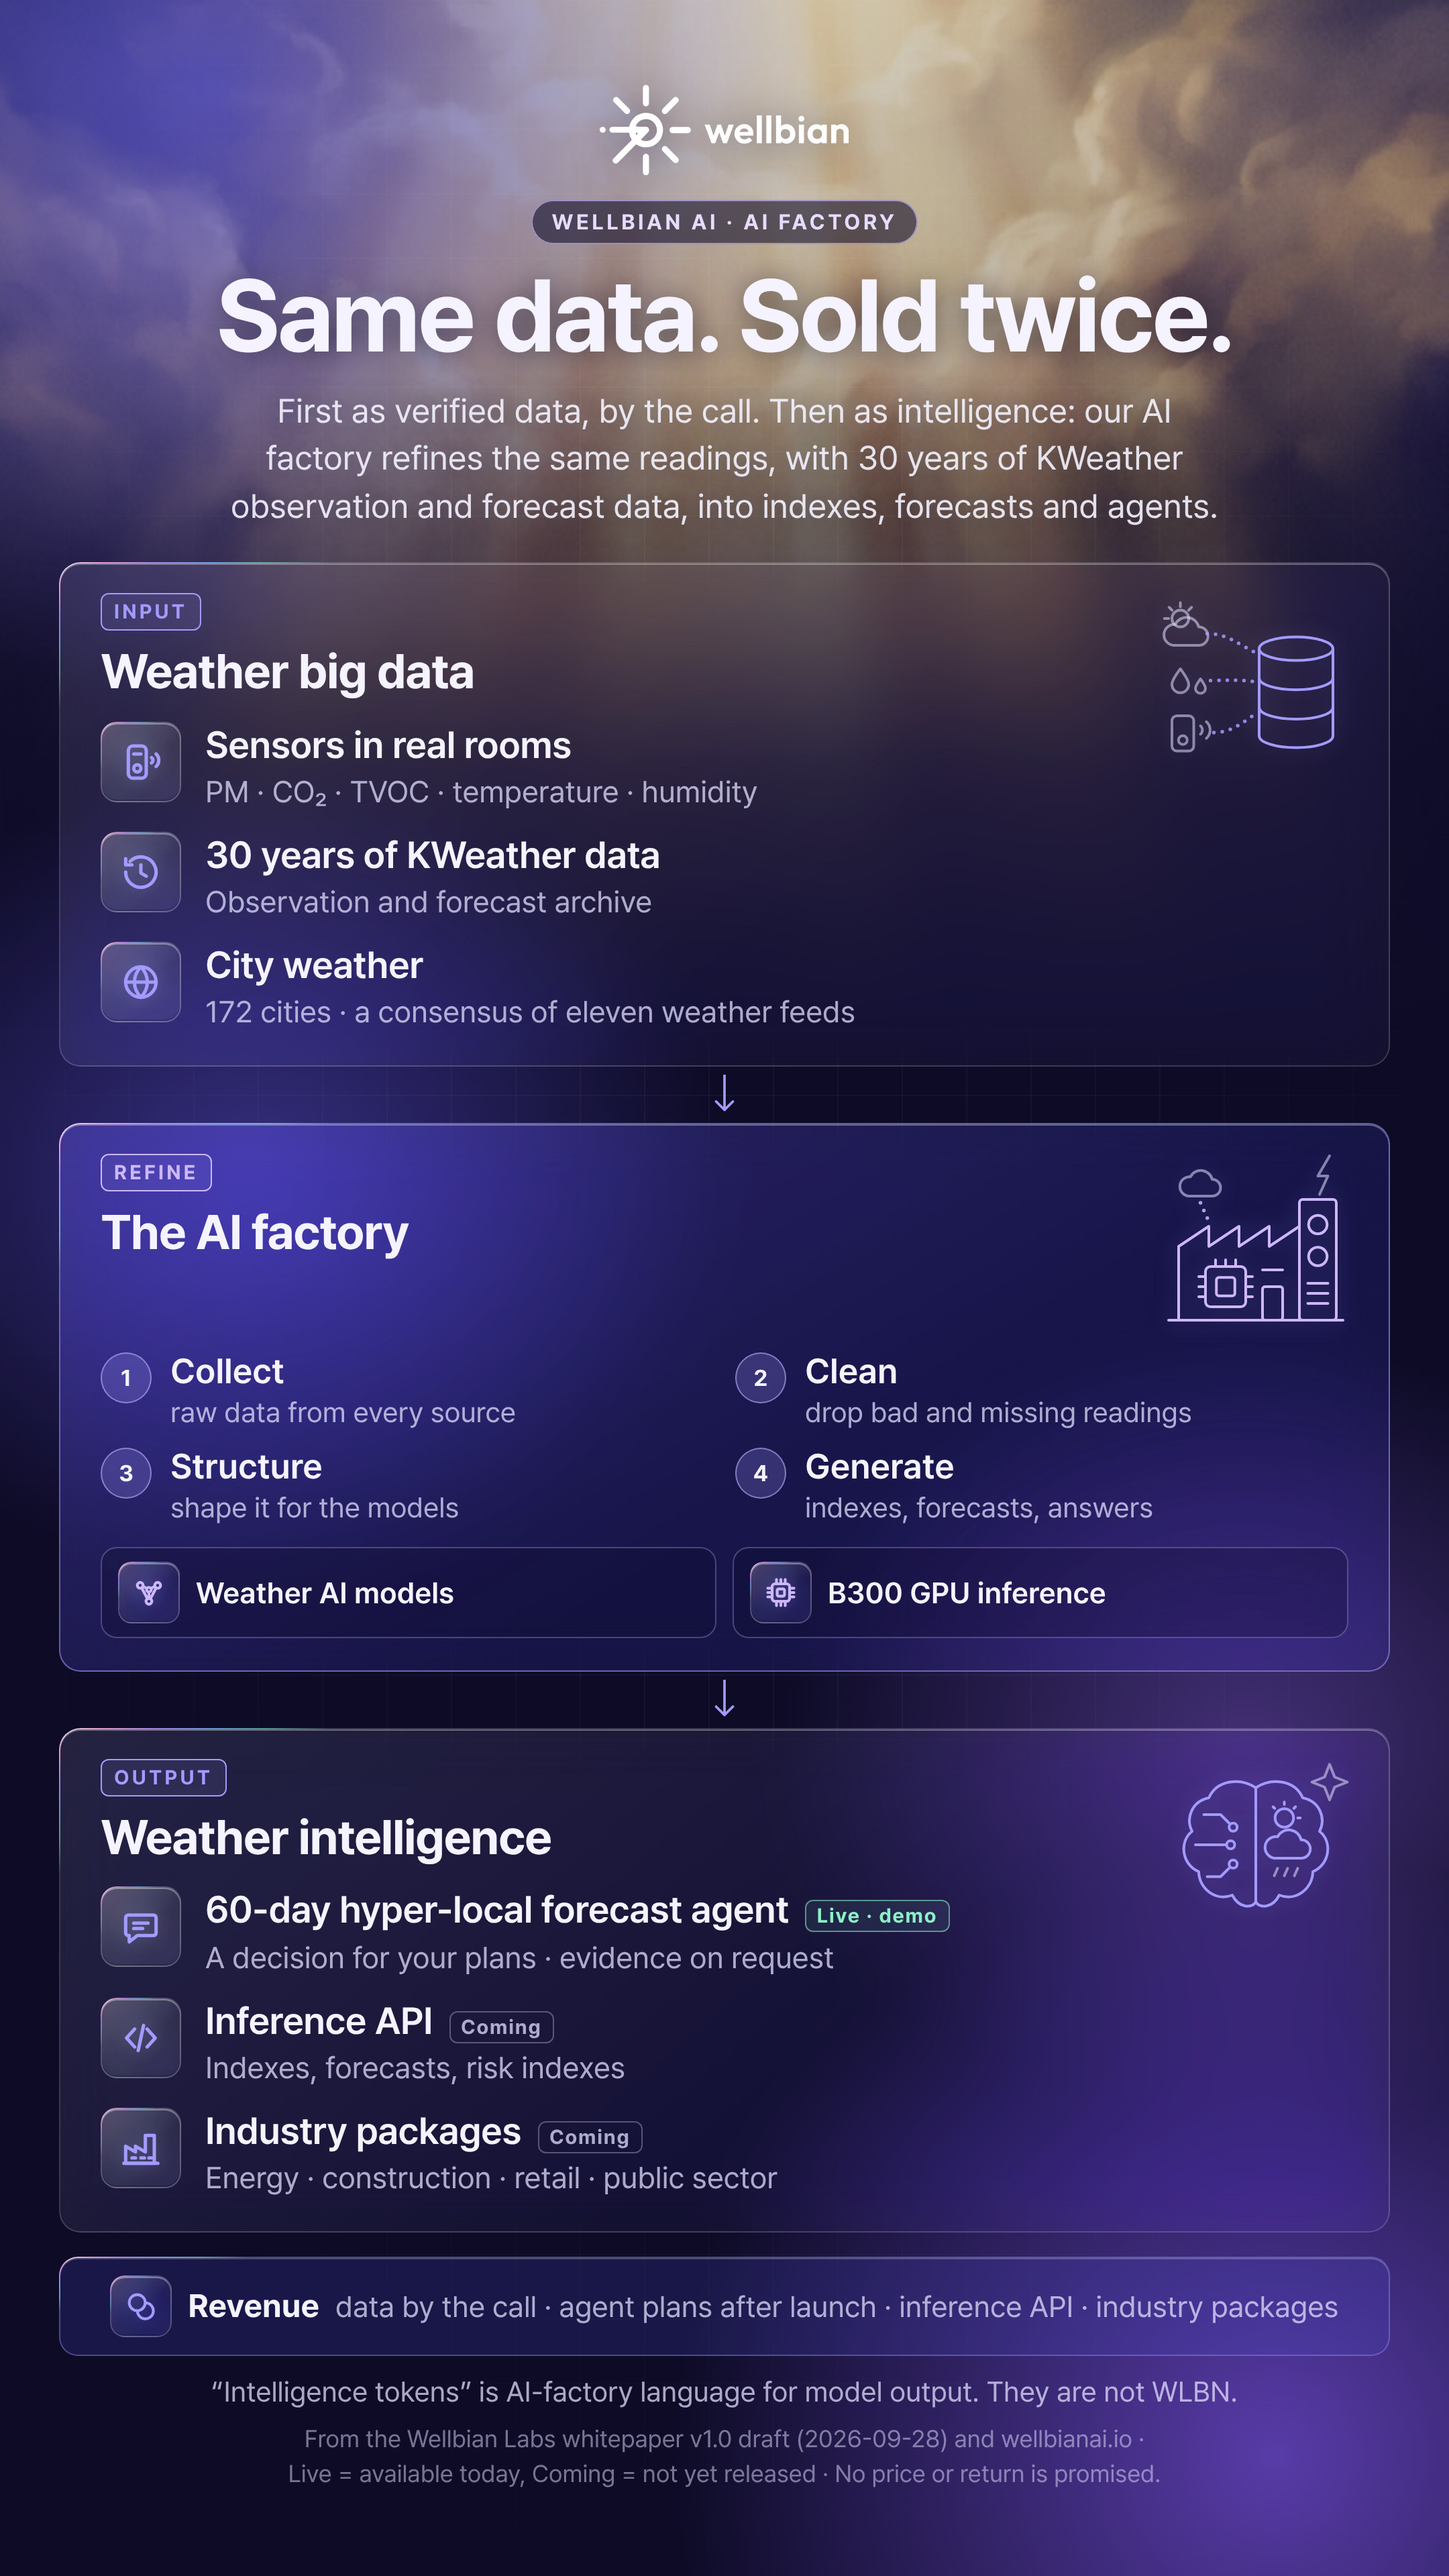
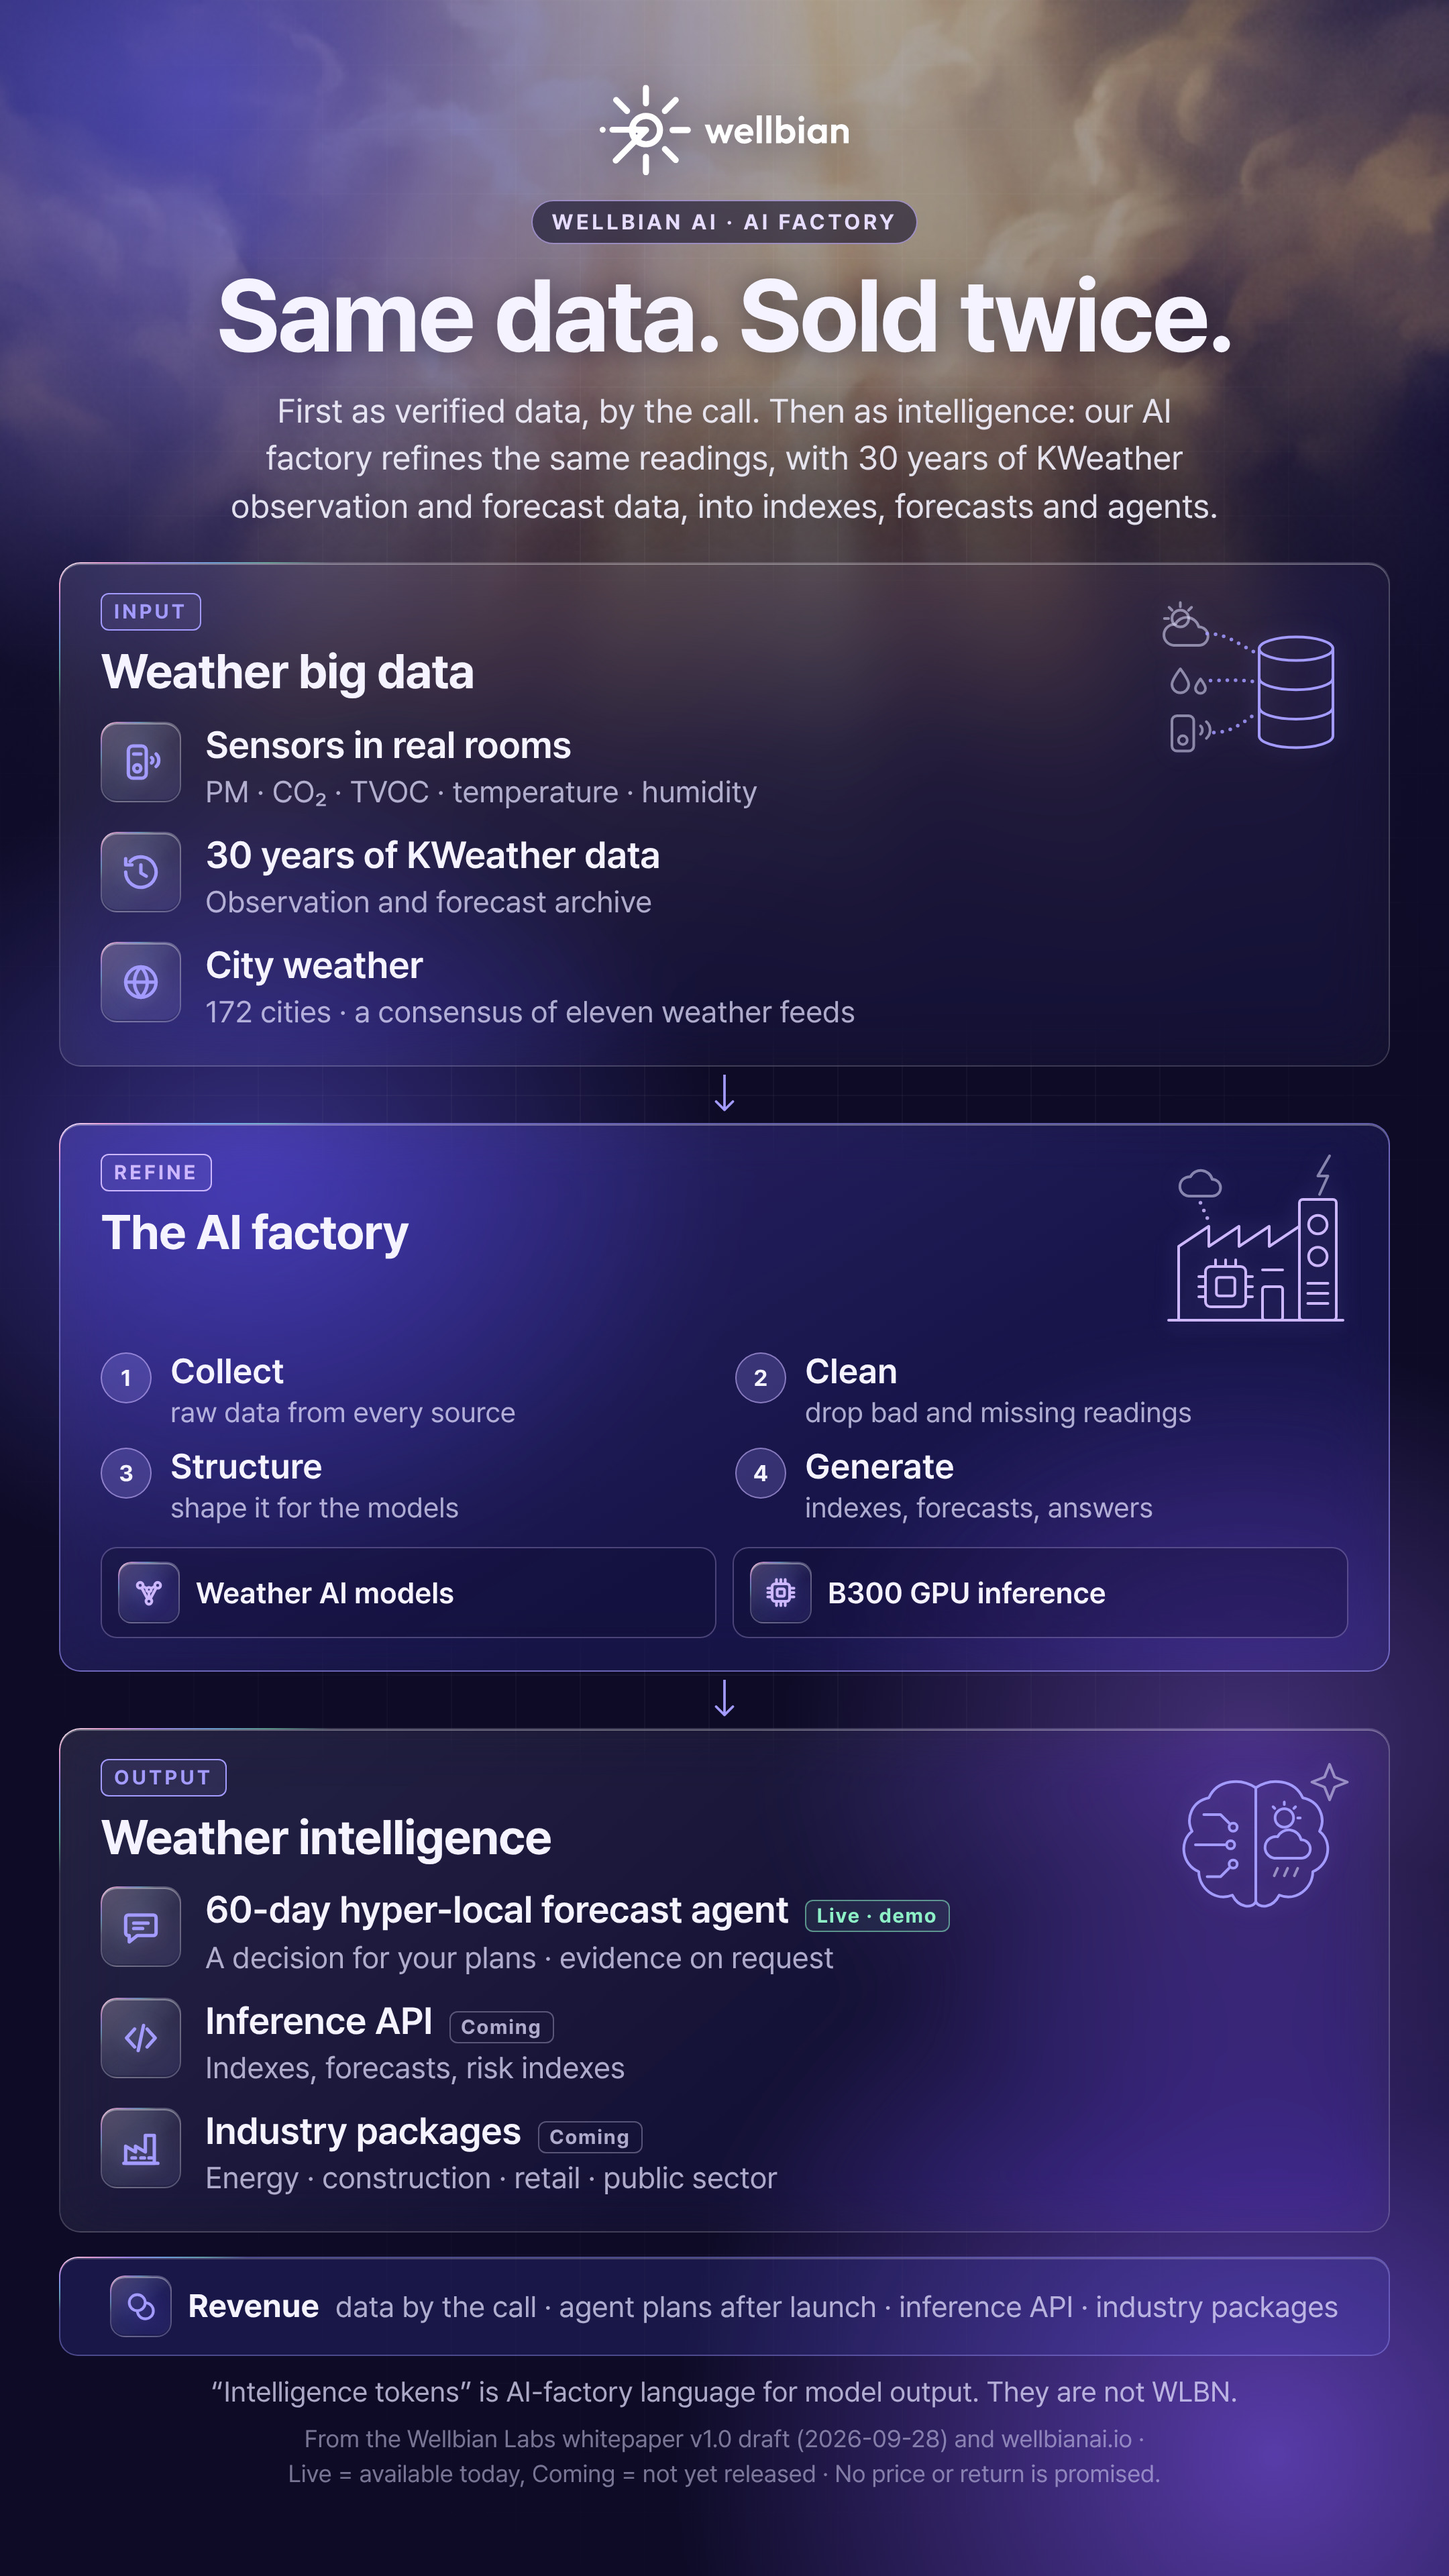
depin: soften the part 3 painted light by a fifth
Claude-Session: https://claude.ai/code/session_014drgzQYBXTLjd1zzmsjRaS

Changed region(s): [[0.3412, 0.0, 0.8685, 0.1875], [0.8995, 0.0625, 1.0, 0.0938]]

diff --git a/depin/content/ai-factory-1021/ai-factory-en-9x16.html b/depin/content/ai-factory-1021/ai-factory-en-9x16.html
@@ -100,7 +100,7 @@ h1{margin-top:18px;font-size:70px;font-weight:700;letter-spacing:-.025em;line-he
 .ill .dot{stroke:currentColor;stroke-width:2.2;stroke-dasharray:0 5;opacity:.85}
 /* 햇살 — 위에서 구름 사이로 쏟아지는 풍부한 금빛(마니에리스모 · 틴토레토 · 엘 그레코의 하늘빛). 10/22 서우 「인위적인 조명 말고 자연스러운 햇살」.
    그린 빛이 아니라 Higgsfield 로 만든 회화풍 배경(assets/light-*.jpg)을 깔고, 아래쪽은 남보라로 덮어 타일 글씨를 지킨다. */
-.paint{position:absolute;inset:0;background:url("assets/light-16x9.jpg") center top/cover no-repeat;opacity:.82}
+.paint{position:absolute;inset:0;background:url("assets/light-16x9.jpg") center top/cover no-repeat;opacity:.66}  /* 10/22 서우 「20% 약하게」 .82 → .66 */
 .paintfade{position:absolute;inset:0;background:linear-gradient(180deg,rgba(13,11,38,0) 0%,rgba(13,11,38,.10) 24%,rgba(13,11,38,.55) 40%,rgba(13,11,38,.88) 56%,#0D0B26 74%)}
 .logo,h1,.sub{text-shadow:0 2px 22px rgba(13,11,38,.55)}
 .logo svg{filter:drop-shadow(0 2px 14px rgba(13,11,38,.5))}

diff --git a/depin/content/ai-factory-1021/ai-factory-en.html b/depin/content/ai-factory-1021/ai-factory-en.html
@@ -100,7 +100,7 @@ h1{margin-top:18px;font-size:70px;font-weight:700;letter-spacing:-.025em;line-he
 .ill .dot{stroke:currentColor;stroke-width:2.2;stroke-dasharray:0 5;opacity:.85}
 /* 햇살 — 위에서 구름 사이로 쏟아지는 풍부한 금빛(마니에리스모 · 틴토레토 · 엘 그레코의 하늘빛). 10/22 서우 「인위적인 조명 말고 자연스러운 햇살」.
    그린 빛이 아니라 Higgsfield 로 만든 회화풍 배경(assets/light-*.jpg)을 깔고, 아래쪽은 남보라로 덮어 타일 글씨를 지킨다. */
-.paint{position:absolute;inset:0;background:url("assets/light-16x9.jpg") center top/cover no-repeat;opacity:.82}
+.paint{position:absolute;inset:0;background:url("assets/light-16x9.jpg") center top/cover no-repeat;opacity:.66}  /* 10/22 서우 「20% 약하게」 .82 → .66 */
 .paintfade{position:absolute;inset:0;background:linear-gradient(180deg,rgba(13,11,38,0) 0%,rgba(13,11,38,.10) 24%,rgba(13,11,38,.55) 40%,rgba(13,11,38,.88) 56%,#0D0B26 74%)}
 .logo,h1,.sub{text-shadow:0 2px 22px rgba(13,11,38,.55)}
 .logo svg{filter:drop-shadow(0 2px 14px rgba(13,11,38,.5))}

diff --git a/depin/content/ai-factory-1021/build.py b/depin/content/ai-factory-1021/build.py
@@ -84,7 +84,7 @@ XCSS = """
 .ill .dot{stroke:currentColor;stroke-width:2.2;stroke-dasharray:0 5;opacity:.85}
 /* 햇살 — 위에서 구름 사이로 쏟아지는 풍부한 금빛(마니에리스모 · 틴토레토 · 엘 그레코의 하늘빛). 10/22 서우 「인위적인 조명 말고 자연스러운 햇살」.
    그린 빛이 아니라 Higgsfield 로 만든 회화풍 배경(assets/light-*.jpg)을 깔고, 아래쪽은 남보라로 덮어 타일 글씨를 지킨다. */
-.paint{position:absolute;inset:0;background:url("assets/light-16x9.jpg") center top/cover no-repeat;opacity:.82}
+.paint{position:absolute;inset:0;background:url("assets/light-16x9.jpg") center top/cover no-repeat;opacity:.66}  /* 10/22 서우 「20% 약하게」 .82 → .66 */
 .paintfade{position:absolute;inset:0;background:linear-gradient(180deg,rgba(13,11,38,0) 0%,rgba(13,11,38,.10) 24%,rgba(13,11,38,.55) 40%,rgba(13,11,38,.88) 56%,#0D0B26 74%)}
 .logo,h1,.sub{text-shadow:0 2px 22px rgba(13,11,38,.55)}
 .logo svg{filter:drop-shadow(0 2px 14px rgba(13,11,38,.5))}

diff --git a/depin/reports/work-log.md b/depin/reports/work-log.md
@@ -2521,3 +2521,4 @@ Thanks Odelia — writing to you at that address today. Mine is support@wellbian
 - **연재 Part 3 5차(10/21, 서우 「최상단에서 메인 카피까지 햇살」)** — 배경층 빛줄기 + 위 가운데 빛 번짐, 첫 판은 로고 근처에서 끊겨 길이 · 밝기를 늘려 제목 줄까지. `content/ai-factory-1021/`.
 - **연재 Part 3 6차(10/22, 서우 「인위적 조명 말고 황금빛 · 창문 햇살처럼」)** — 방사형 빛줄기 → 위 왼쪽에서 비스듬히 내려오는 평행 금빛 띠 넷(창살 간격) · 흐림 · 아래로 옅게. `content/ai-factory-1021/`.
 - **연재 Part 3 7차(10/22, 서우 「마니에리스모 화풍처럼 위에서 내려오는 풍부하고 자연스러운 햇살」)** — CSS 빛 대신 Higgsfield 회화풍 하늘 배경(구름 사이 금빛, 16:9 · 9:16, 약 6크레딧) · 아래는 남보라로 덮음 · 칩 · 부제 가독성 보정. `content/ai-factory-1021/`.
+- **연재 Part 3 8차(10/22, 서우 「효과 20% 약하게」)** — 회화풍 빛 배경 불투명도 .82 → .66. `content/ai-factory-1021/`.

diff --git a/depin/content/ai-factory-1021/README.md b/depin/content/ai-factory-1021/README.md
@@ -18,6 +18,8 @@
 
 - **10/22 7차(서우 「이것도 인위적 — 마니에리스모 화풍처럼 위에서 내려오는 풍부한 광량의 자연스러운 햇살」)**: CSS 로 그린 빛을 버리고 Higgsfield(nano_banana_2, 2크레딧씩 · 16:9 두 장 중 하나 + 9:16 한 장)로 **구름 사이로 금빛이 쏟아지는 회화풍 배경**을 만들어 깔았다(`assets/light-16x9.jpg` · `light-9x16.jpg`, 작업 ID 80c4bb0f… · 09ce1a6d…). 아래쪽은 남보라로 덮어(`.paintfade`) 타일 글씨를 지키고, 로고 · 제목 · 부제에 옅은 그림자 · 칩은 어두운 유리 바탕으로 가독성 확보. 사람 · 천사 · 건물 없는 하늘만.
 
+- **10/22 8차(서우 「질감 좋은데 효과 20% 정도만 약화」)**: 회화풍 배경 불투명도 .82 → .66.
+
 ## 백서 대조 (Company whitepaper v1.0 초안 2026-09-28 · wellbianai.io, 10/21 열람)
 
 | 원글 · 그림 | 백서 · 사이트 | 3편에서 |
